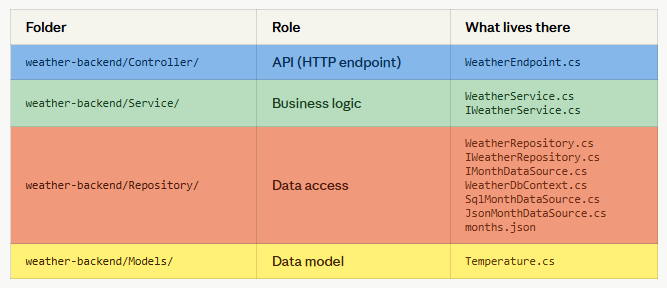
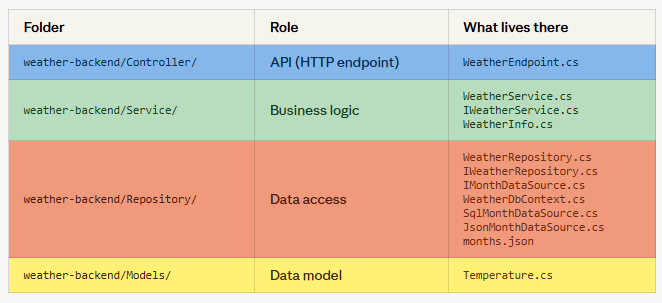
Show the weather info on the frontend and update docs
Wire the Angular app to the backend's WeatherInfo response and bring the docs in line with it.

Frontend:
- weather.service.ts: add an exported WeatherInfo interface (mirrors the backend record);
rename getTemperature -> getWeather, typed to it
- app.ts: import WeatherInfo; the signal now holds the whole info object (temperature -> info);
onMonthSelected stores the full response
- app.html: show the range (min-max), the typical (average) temperature, and the description label; update the page subtitle

Docs:
- README: describe the new { minTemp, maxTemp, average, description } response in the intro, example, and request-flow steps;
add WeatherInfo.cs to the structure list; note the frontend shows weather live
- docs/clean_architecture.png: regenerate with WeatherInfo.cs in Service

Changed region(s): [[0.0, 0.0625, 0.997, 0.9688], [0.3927, 0.625, 0.5438, 0.6875], [0.3927, 0.3438, 0.5438, 0.4062]]

diff --git a/weather-frontend/src/app/weather.service.ts b/weather-frontend/src/app/weather.service.ts
@@ -1,6 +1,15 @@
 import { Injectable } from '@angular/core';
 import { HttpClient } from '@angular/common/http';
 
+// The shape of the data the API returns for a month (matches the backend's
+// WeatherInfo record). Exported so the component can use the same type.
+export interface WeatherInfo {
+	minTemp: number;
+	maxTemp: number;
+	average: number;
+	description: string;
+}
+
 // A service = a reusable class. This one's only job is to call the backend API.
 //
 // @Injectable({ providedIn: 'root' }) marks the class as a service Angular can
@@ -18,10 +27,10 @@ export class WeatherService {
 	constructor(private http: HttpClient) {}
 
 	// Calls GET /api/weather/temperature?month=<month>.
-	// Returns an Observable: the response arrives later, and whoever cares
-	// "subscribes" to be notified when it does (the observer pattern).
-	getTemperature(month: string) {
-		return this.http.get<{ temperature: number }>(this.apiUrl, {
+	// Returns an Observable of the month's WeatherInfo (range + average +
+	// description). The response arrives later; whoever cares "subscribes" to it.
+	getWeather(month: string) {
+		return this.http.get<WeatherInfo>(this.apiUrl, {
 			params: { month },
 		});
 	}

diff --git a/weather-frontend/src/app/app.html b/weather-frontend/src/app/app.html
@@ -1,6 +1,6 @@
 <main class="page">
 	<h1>Weather in the Netherlands</h1>
-	<p>Pick a month to see a likely temperature,<br>based on its usual min-max range.</p>
+	<p>Pick a month to see its typical weather.</p>
 
 	<!-- The dropdown. @for is Angular's built-in loop: it reads the component's
 	     `months` array (from app.ts) and creates one <option> per month. `track`
@@ -14,9 +14,11 @@
 		}
 	</select>
 
-	<!-- @if is Angular's built-in conditional: only shows once we have a value.
-	     temperature() reads the signal; when it changes, this updates itself. -->
-	@if (temperature() !== null) {
-		<p class="result">{{ temperature() }}&deg;C</p>
+	<!-- @if is Angular's built-in conditional: only shows once we have data.
+	     "as w" names the signal's value so we can read its fields. When the
+	     signal changes, this updates itself. -->
+	@if (info(); as w) {
+		<p class="result">{{ w.minTemp }}&deg;C - {{ w.maxTemp }}&deg;C</p>
+		<p>Typically {{ w.average }}&deg;C ({{ w.description }})</p>
 	}
 </main>

diff --git a/weather-frontend/src/app/app.ts b/weather-frontend/src/app/app.ts
@@ -1,5 +1,5 @@
 import { Component, signal } from '@angular/core';
-import { WeatherService } from './weather.service';
+import { WeatherService, WeatherInfo } from './weather.service';
 
 @Component({
   selector: 'app-root',
@@ -18,10 +18,10 @@ export class App {
     'July', 'August', 'September', 'October', 'November', 'December',
   ];
 
-  // A signal = a reactive value. It holds the latest temperature (null until a
+  // A signal = a reactive value. It holds the chosen month's info (null until a
   // month is picked). When we .set() it, the template re-renders by itself -
   // that's what gives the live update with no F5.
-  protected readonly temperature = signal<number | null>(null);
+  protected readonly info = signal<WeatherInfo | null>(null);
 
   // Inject the WeatherService (dependency injection, same as the backend).
   constructor(private weather: WeatherService) {}
@@ -29,8 +29,8 @@ export class App {
   // Runs when the dropdown changes. Calls the API; when the response arrives,
   // .set() stores it in the signal, which refreshes the screen.
   onMonthSelected(month: string) {
-    this.weather.getTemperature(month).subscribe(response => {
-      this.temperature.set(response.temperature);
+    this.weather.getWeather(month).subscribe(response => {
+      this.info.set(response);
     });
   }
 }

diff --git a/README.md b/README.md
@@ -1,11 +1,13 @@
 # WeatherAPI
 
-A small ASP.NET Core Web API built to learn **Clean Architecture**. It returns a
-random temperature for a chosen month, and can read its data from either a JSON
-file or a SQLite database - swappable with one line.
+A small ASP.NET Core Web API built to learn **Clean Architecture**. For a chosen
+month it returns the usual temperature range plus a typical (average) value and
+a short description, and can read its data from either a JSON file or a SQLite
+database - swappable with one line.
 
 ```
-GET /api/weather/temperature?month=January  ->  { "temperature": 4 }
+GET /api/weather/temperature?month=January
+->  { "minTemp": 1, "maxTemp": 6, "average": 3, "description": "Freezing" }
 ```
 
 ## Repository layout
@@ -14,7 +16,7 @@ This repo holds two apps side by side:
 
 - `weather-backend/` - the ASP.NET Core API (this README describes it; all
   backend paths below are relative to this folder)
-- `weather-frontend/` - the Angular app (work in progress)
+- `weather-frontend/` - the Angular app: a month dropdown that shows the weather live
 
 ## Backend structure
 
@@ -24,7 +26,7 @@ type):
 
 ![WeatherAPI project structure - Controller/ (API, HTTP endpoint):
 WeatherEndpoint.cs; Service/ (business logic): WeatherService.cs,
-IWeatherService.cs; Repository/ (data access): WeatherRepository.cs,
+IWeatherService.cs, WeatherInfo.cs; Repository/ (data access): WeatherRepository.cs,
 IWeatherRepository.cs, IMonthDataSource.cs, WeatherDbContext.cs,
 SqlMonthDataSource.cs, JsonMonthDataSource.cs, months.json; Models/
 (data model): Temperature.cs](docs/clean_architecture.png)
@@ -42,14 +44,15 @@ request arrives.
 2. Kestrel receives it; routing matches `WeatherEndpoint`.
 3. DI builds the chain; for `IMonthDataSource` it builds the chosen driver
    (`SqlMonthDataSource` + `WeatherDbContext`).
-4. Controller validates the month and calls `_service.GetTemperature("July")`.
+4. Controller validates the month and calls `_service.GetWeather("July")`.
 5. `WeatherService` calls `_repository.GetByMonth("July")`.
 6. `WeatherRepository` calls `_dataSource.GetAll()` (the chosen driver).
 7. `SqlMonthDataSource` → EF Core → `SELECT * FROM Temperatures` →
    `weather.db` → `Temperature` rows.
-8. `WeatherRepository` picks the July row (14-23); `WeatherService` rolls a
-   random value inside it and returns the `int`.
-9. Controller wraps it as `{ "temperature": N }`; Kestrel sends the JSON back.
+8. `WeatherRepository` picks the July row (14-23); `WeatherService` computes the
+   average and a description, returning a `WeatherInfo`.
+9. Controller returns `{ minTemp, maxTemp, average, description }` as JSON;
+   Kestrel sends it back.
 
 Quick view of the call chain:
 